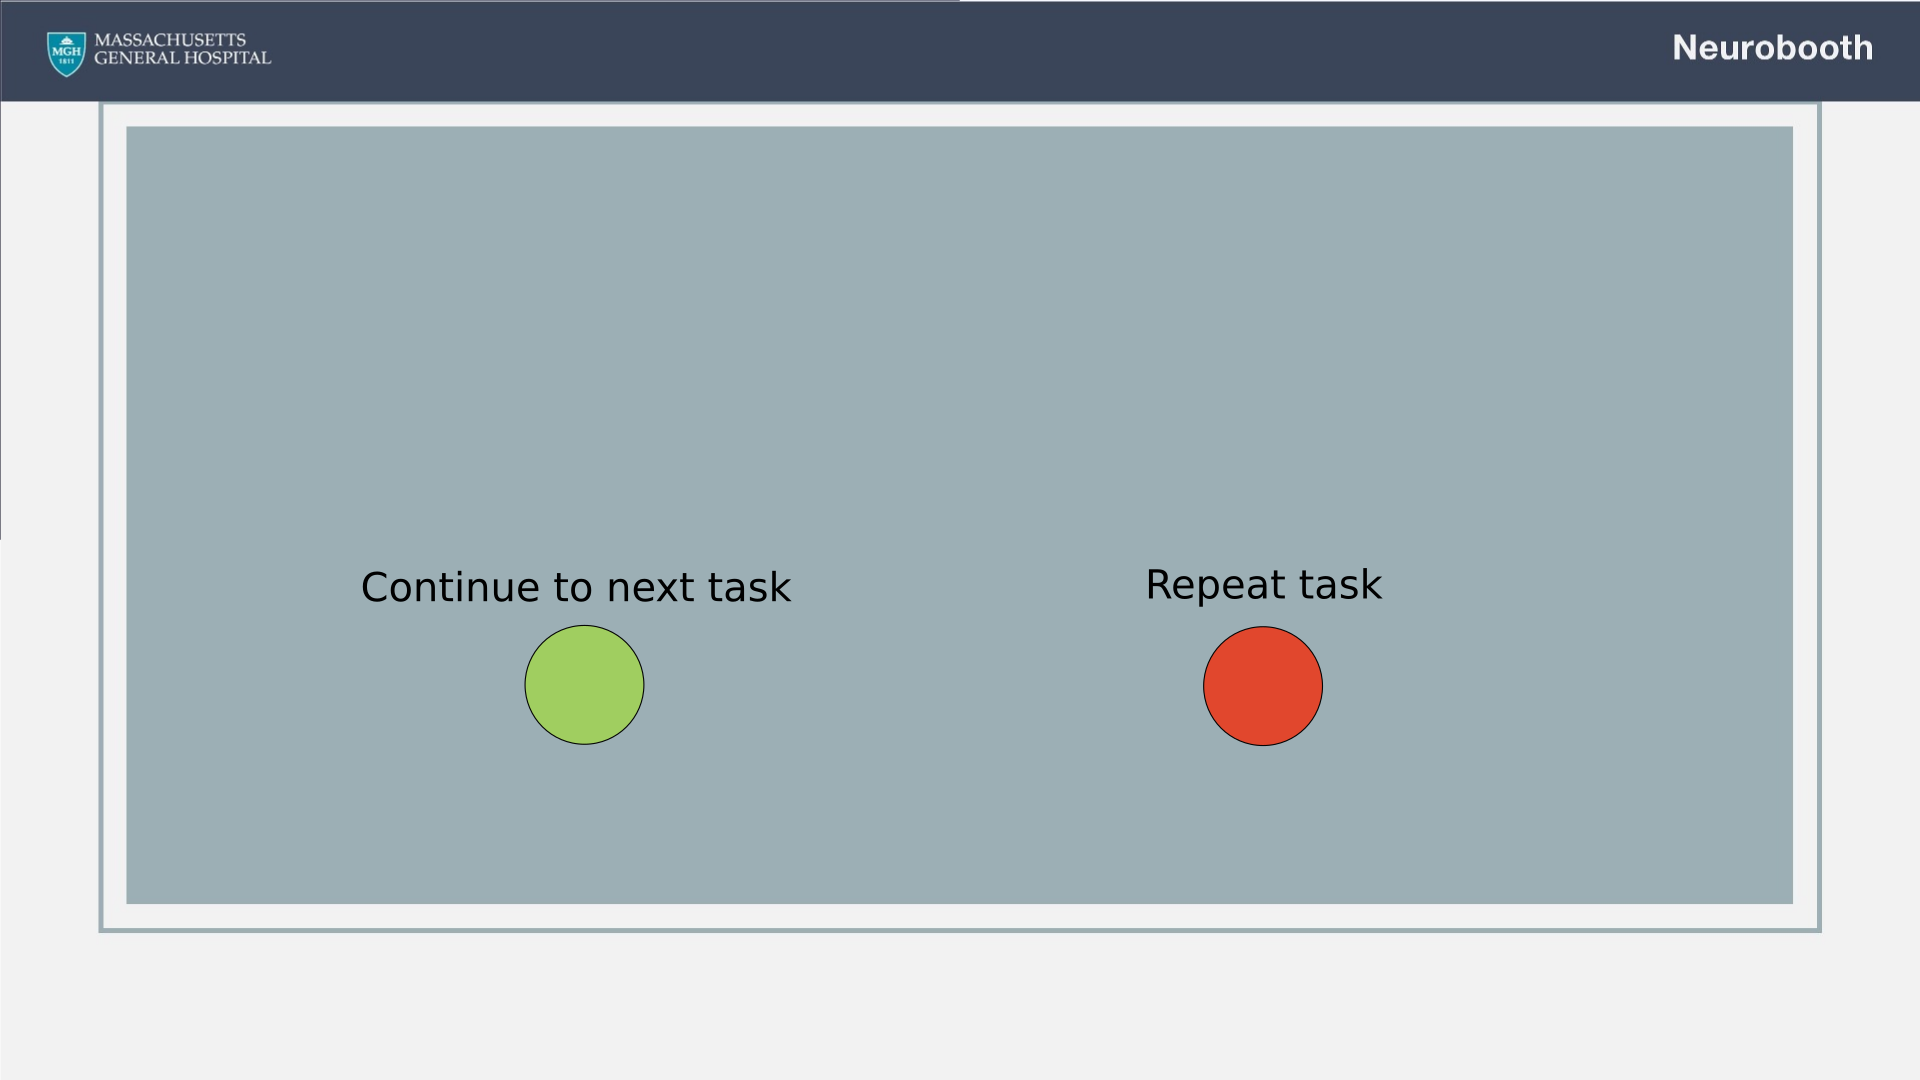
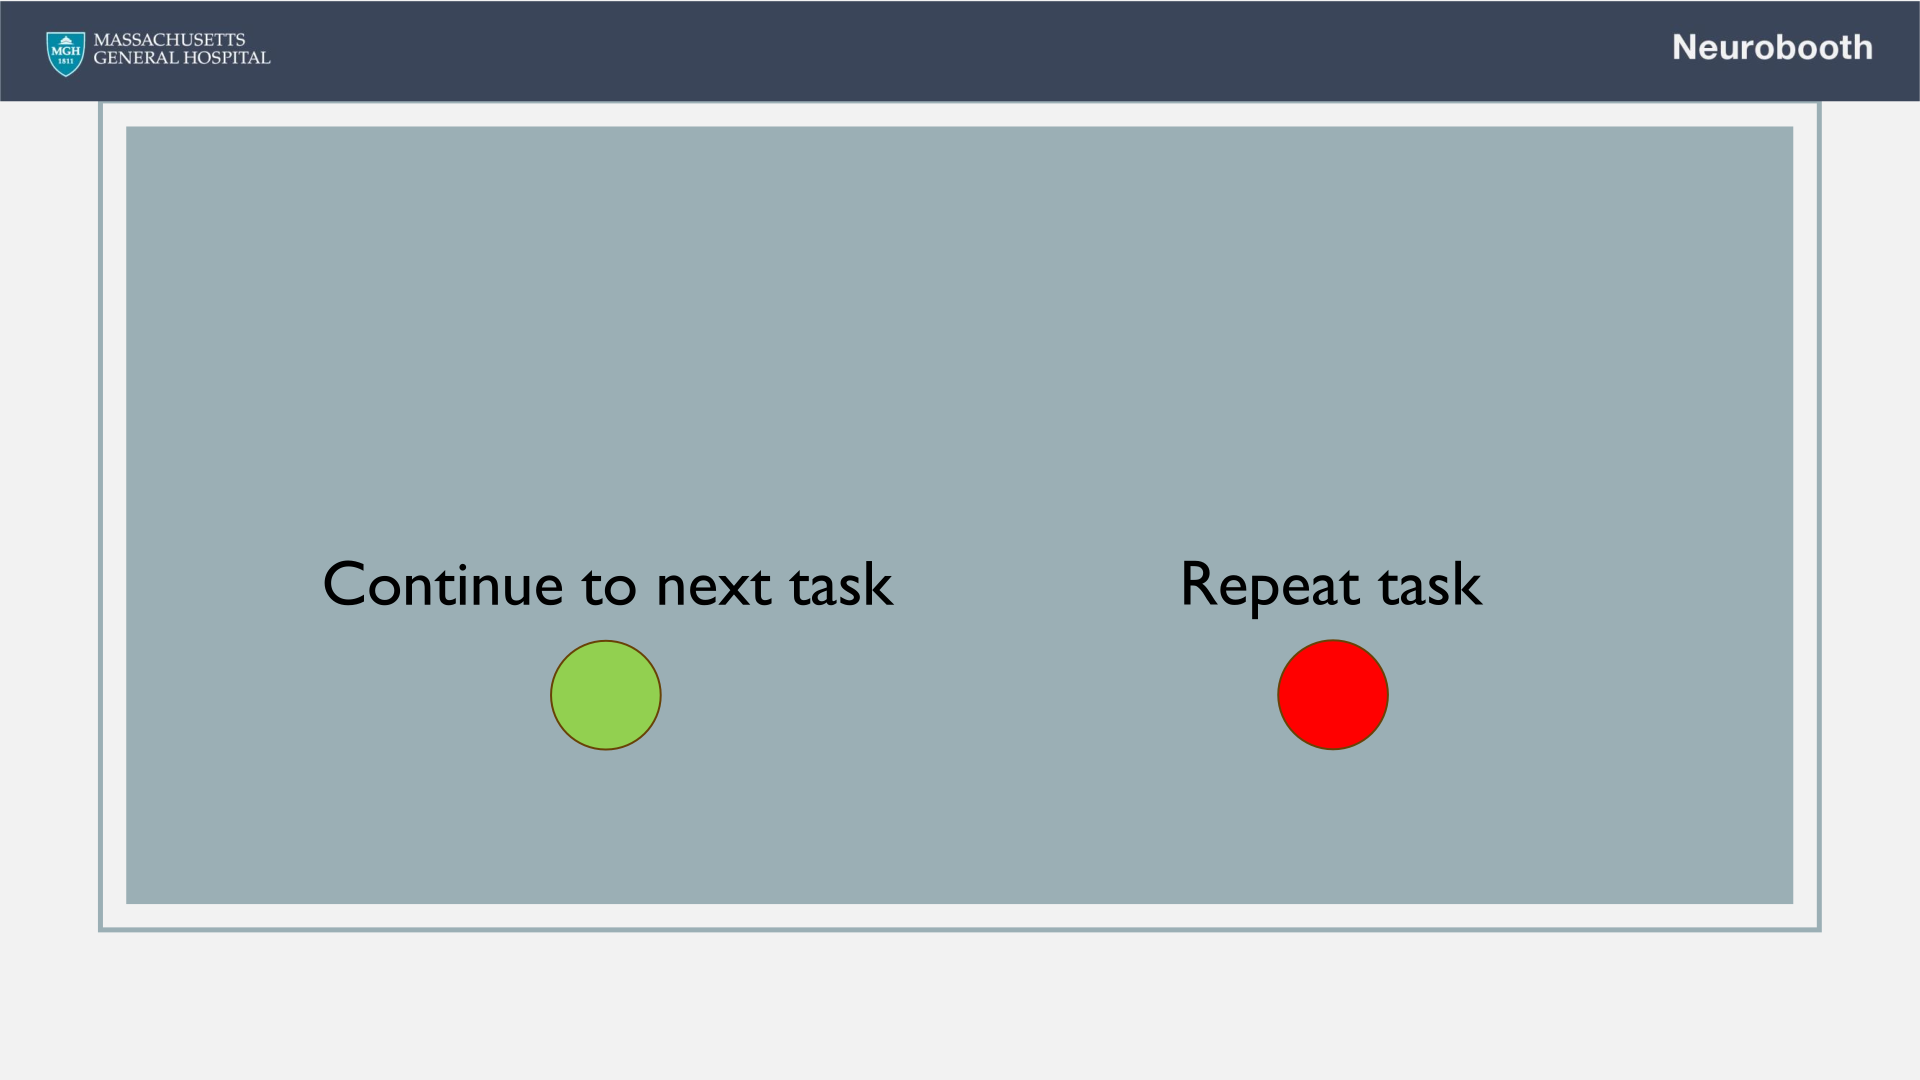
add/replace images and update code to make task repeat optional (#301)
* add/replace images and update code to make task repeat optional

* update images to fix resolution issues

* Delete unused images

* refactor advance-repeat as per review comments

diff --git a/neurobooth_os/tasks/task.py b/neurobooth_os/tasks/task.py
@@ -36,6 +36,7 @@ class Task:
         text_task=utils.text_task,
         text_end=utils.text_end,
         countdown=None,
+        task_repeatable_by_subject=True,
         **kwargs,
     ):
         self.logger = logging.getLogger('session')
@@ -57,6 +58,13 @@ class Task:
         self.path_instruction_video = instruction_file
         self.full_screen = full_screen
         self.events = []
+
+        self.advance_keys = ['space']
+        if task_repeatable_by_subject:
+            self.repeat_keys = ['r', ',']
+        else:
+            self.repeat_keys = ['r']
+
         if self.path_instruction_video:
             print(f"Loading {self.path_instruction_video}")
 
@@ -94,9 +102,14 @@ class Task:
             pos=(0, 0),
             units="deg",
         )
+        if task_repeatable_by_subject:
+            task_end_image = "tasks/assets/task_end.png"
+        else:
+            task_end_image = "tasks/assets/task_end_disabled.png"
+
         self.press_task_screen = visual.ImageStim(
             self.win,
-            image=op.join(self.root_pckg, "tasks/assets/task_end.png"),
+            image=op.join(self.root_pckg, task_end_image),
             pos=(0, 0),
             units="deg",
         )
@@ -123,6 +136,19 @@ class Task:
             pos=(0, 0),
             units="deg",
         )
+
+    def repeat_advance(self):
+        """
+         Repeat the current task or continue to next, based on the key pressed.
+         :returns: False to continue; True to repeat
+         """
+        keys = utils.get_keys(keyList=[*self.advance_keys, *self.repeat_keys])
+        for key in keys:
+            if key in self.advance_keys:
+                return False
+            elif key in self.repeat_keys:
+                return True
+        self.logger.warning(f'Unreachable case during task repeat_advance: keys={keys}')
 
     def send_marker(self, msg=None, add_event=False):
         if self.with_lsl:
@@ -159,7 +185,7 @@ class Task:
         self.send_marker(f"{msg}_end", True)
 
         if func is not None:
-            if utils.repeat_advance():
+            if self.repeat_advance():
                 func(**func_kwargs)
 
     def show_video(self, video, msg, stop=False):

diff --git a/neurobooth_os/tasks/utils.py b/neurobooth_os/tasks/utils.py
@@ -170,14 +170,6 @@ def rewind_video(win, mov):
         return True
 
 
-def repeat_advance():
-    key = get_keys(keyList=["space", "r"])
-    if key == ["space"]:
-        return False
-    elif key == ["r"]:
-        return True
-
-
 def advance():
     key = get_keys(keyList=["space"])
     if key == ["space"]:
